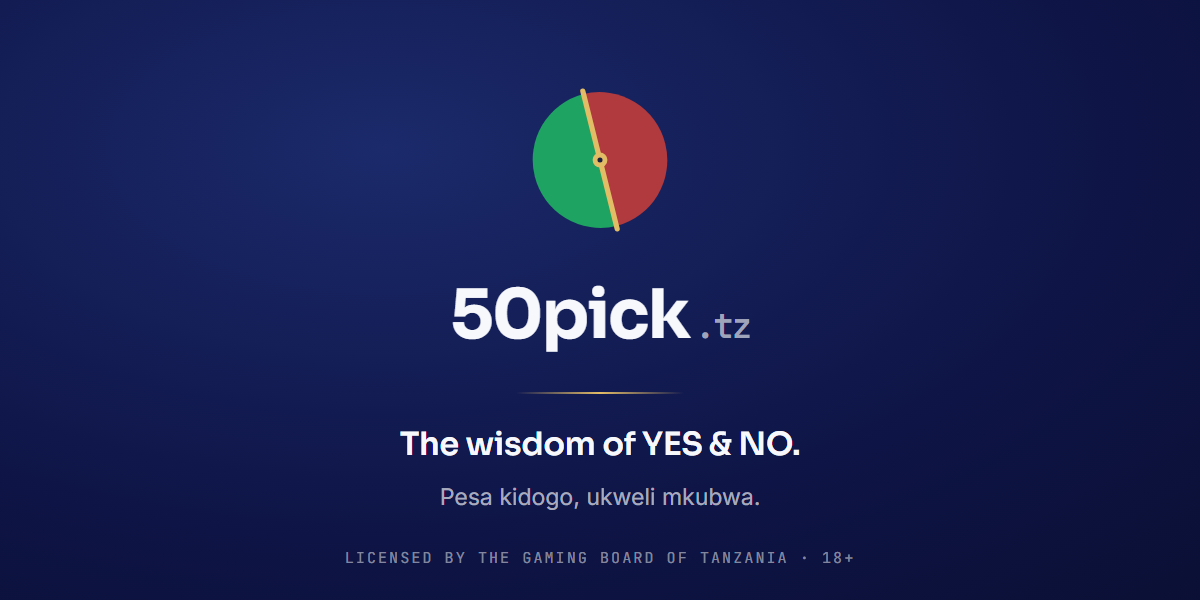
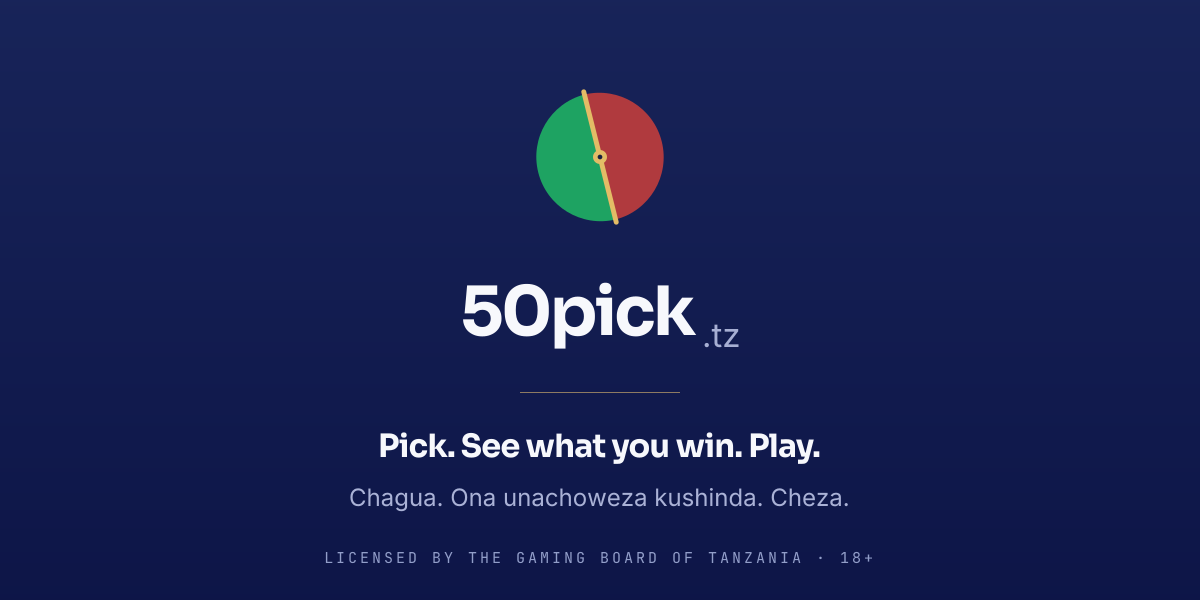
Park S15 legal copy, tagline and generated share previews

diff --git a/src/app/legal/terms/page.tsx b/src/app/legal/terms/page.tsx
@@ -201,9 +201,10 @@ export function content(objectionHours: number): Record<Locale, React.ReactNode>
           pool is shown, in shillings, on that market&apos;s resolution panel.
         </p>
         <p>
-          The probabilities shown on the dial are <em>implied</em> by the current pool composition and update with
-          every new bet — they are not guaranteed odds. While betting is open your final payout is not yet
-          determined, because the pools are still moving. <strong className="text-text">The moment betting closes,
+          Before you bet, a market may show what its pools imply — the share of the pool on each side, or an estimate
+          of what a bet would return if its side wins. Neither is guaranteed odds: both change with every new bet,
+          and while betting is open your final payout is not yet determined, because the pools are still moving.
+          <strong className="text-text">The moment betting closes,
           the pools are final and we notify you of the exact amount you will receive if your side wins.</strong>
         </p>
         <p>
@@ -244,8 +245,8 @@ export function content(objectionHours: number): Record<Locale, React.ReactNode>
       <LegalSection n="7" title="Responsible gambling">
         <p>
           You can set deposit limits, take a break, or self-exclude in{" "}
-          <a href="/profile/responsible-gambling" className="text-gold-300 hover:text-gold-200 underline-offset-2 hover:underline">Responsible Gambling</a>.
-          See the dedicated <a href="/legal/responsible-gambling" className="text-gold-300 hover:text-gold-200 underline-offset-2 hover:underline">Responsible Gambling Policy</a>.
+          <a href="/profile/responsible-gambling" className="text-brand-300 hover:text-brand-200 underline-offset-2 hover:underline">Responsible Gambling</a>.
+          See the dedicated <a href="/legal/responsible-gambling" className="text-brand-300 hover:text-brand-200 underline-offset-2 hover:underline">Responsible Gambling Policy</a>.
         </p>
       </LegalSection>
 
@@ -358,7 +359,7 @@ export function content(objectionHours: number): Record<Locale, React.ReactNode>
           <strong className="text-text">dau lililoshinda halilipwi chini ya dau lake kamwe</strong>.
         </p>
         <p>
-          Kama madau yote yako upande mmoja, hakuna upande ulioshindwa, kwa hiyo hatutozi chochote na kila dau
+          Kama madau yote yapo upande mmoja, hakuna upande ulioshindwa, kwa hiyo hatutozi chochote na kila dau
           linarudishwa lote. Vivyo hivyo kwa soko lililofutwa.
         </p>
         <p>
@@ -368,10 +369,11 @@ export function content(objectionHours: number): Record<Locale, React.ReactNode>
           paneli ya matokeo ya soko hilo.
         </p>
         <p>
-          Uwezekano unaoonyeshwa kwenye kipima-dau <em>unadokezwa</em> na muundo wa sasa wa bwawa na hubadilika kila
-          linapowekwa dau jipya — si bei (odds) za uhakika. Wakati dau bado liko wazi, malipo yako ya mwisho bado
-          hayajapangwa kwa sababu bwawa bado linabadilika.{" "}
-          <strong className="text-text">Mara dau litakapofungwa, bwawa litakuwa la mwisho na tutakujulisha kiasi kamili
+          Kabla hujaweka dau, soko linaweza kuonyesha kile ambacho mabwawa yake yanadokeza — sehemu ya bwawa iliyo kila
+          upande, au makadirio ya kiasi ambacho dau litalipa upande wake ukishinda. Vyote viwili si bei (odds) za uhakika:
+          vyote hubadilika kila linapowekwa dau jipya, na wakati uwekaji dau bado uko wazi, malipo yako ya mwisho bado
+          hayajapangwa kwa sababu mabwawa bado yanabadilika.{" "}
+          <strong className="text-text">Mara uwekaji dau utakapofungwa, mabwawa yatakuwa ya mwisho na tutakujulisha kiasi kamili
           utakachopata iwapo upande wako utashinda.</strong>
         </p>
         <p>
@@ -411,8 +413,8 @@ export function content(objectionHours: number): Record<Locale, React.ReactNode>
       <LegalSection n="7" title="Mchezo salama wa kubahatisha">
         <p>
           Unaweza kuweka mipaka ya kuweka fedha, kuchukua mapumziko, au kujizuia mwenyewe katika{" "}
-          <a href="/profile/responsible-gambling" className="text-gold-300 hover:text-gold-200 underline-offset-2 hover:underline">Mchezo Salama</a>.
-          Angalia <a href="/legal/responsible-gambling" className="text-gold-300 hover:text-gold-200 underline-offset-2 hover:underline">Sera ya Mchezo Salama</a> maalum.
+          <a href="/profile/responsible-gambling" className="text-brand-300 hover:text-brand-200 underline-offset-2 hover:underline">Mchezo Salama</a>.
+          Angalia <a href="/legal/responsible-gambling" className="text-brand-300 hover:text-brand-200 underline-offset-2 hover:underline">Sera ya Mchezo Salama</a> maalum.
         </p>
       </LegalSection>
 
@@ -505,7 +507,7 @@ export function content(objectionHours: number): Record<Locale, React.ReactNode>
           适用于某个市场的费率<strong className="text-text">在该市场创建时即已固定</strong>，此后不可更改。我们日后调整费率仅影响未来的市场；绝不会重新计价您已下的注。已结算奖池实际收取的佣金，会以先令金额显示在该市场的结算面板上。
         </p>
         <p>
-          转盘上显示的概率是由当前资金池构成所<em>隐含</em>的，并随每一笔新下注而更新——它们并非保证的赔率。在投注开放期间，由于资金池仍在变动，您的最终赔付尚未确定。
+          下注前，市场可能会显示其资金池所隐含的信息——各方在资金池中所占的份额，或若所选一方获胜时某笔投注可获回报的预估。两者均非保证的赔率：它们会随每一笔新下注而变化；在投注开放期间，由于资金池仍在变动，您的最终赔付尚未确定。
           <strong className="text-text">投注一经关闭，资金池即告最终确定，我们会通知您：若您所选一方获胜，您将收到的确切金额。</strong>
         </p>
         <p>
@@ -534,8 +536,8 @@ export function content(objectionHours: number): Record<Locale, React.ReactNode>
       <LegalSection n="7" title="负责任博彩">
         <p>
           您可以在
-          <a href="/profile/responsible-gambling" className="text-gold-300 hover:text-gold-200 underline-offset-2 hover:underline">负责任博彩</a>
-          中设置充值限额、暂停游戏或自我排除。另请参阅专门的<a href="/legal/responsible-gambling" className="text-gold-300 hover:text-gold-200 underline-offset-2 hover:underline">负责任博彩政策</a>。
+          <a href="/profile/responsible-gambling" className="text-brand-300 hover:text-brand-200 underline-offset-2 hover:underline">负责任博彩</a>
+          中设置充值限额、暂停游戏或自我排除。另请参阅专门的<a href="/legal/responsible-gambling" className="text-brand-300 hover:text-brand-200 underline-offset-2 hover:underline">负责任博彩政策</a>。
         </p>
       </LegalSection>
 

diff --git a/src/app/legal/rules/_content-yes-no.tsx b/src/app/legal/rules/_content-yes-no.tsx
@@ -107,7 +107,7 @@ export function yesNoContent(r: RulesRates): Record<Locale, React.ReactNode> {
             </li>
             <li>
               Stakes are bounded: minimum <span className="font-mono tabular-nums text-text whitespace-nowrap">{tzs(r.minStake)}</span>,
-              maximum <span className="font-mono tabular-nums text-text whitespace-nowrap">{tzs(r.maxStake)}</span> per position.
+              maximum <span className="font-mono tabular-nums text-text whitespace-nowrap">{tzs(r.maxStake)}</span> per bet.
             </li>
           </ul>
         </LegalSection>
@@ -129,7 +129,7 @@ export function yesNoContent(r: RulesRates): Record<Locale, React.ReactNode> {
               Every market carries a <strong className="text-text">named public source</strong> it will be settled
               against and a clear closing deadline, both displayed before you stake.
             </li>
-            <li>The conviction indicator shows where the crowd&apos;s money sits. It is information, not advice.</li>
+            <li>What a market shows before you bet — where the money sits, or an estimate of what a bet would return — is information, not advice.</li>
           </ul>
         </LegalSection>
 
@@ -146,6 +146,12 @@ export function yesNoContent(r: RulesRates): Record<Locale, React.ReactNode> {
             The commission is taken <strong className="text-text">only from the losing side</strong>, so a winning
             bet is never paid less than it staked. If every stake is on one side there is no losing side, so we
             charge nothing and every stake is refunded in full. The same applies to a voided market.
+          </p>
+          <p>
+            <strong className="text-text">Estimates shown before you bet.</strong> Before you bet, a market may show an
+            estimate of what a bet would return if its side wins. An estimate is information, not a promise: it changes
+            as other players bet, and what a winning bet is paid is fixed only when betting closes, from the final pools
+            and after our commission.
           </p>
           <p>
             <strong className="text-text">Cash-out.</strong> Within the first{" "}
@@ -282,7 +288,7 @@ export function yesNoContent(r: RulesRates): Record<Locale, React.ReactNode> {
             <li>
               Dau lina mipaka: kiwango cha chini{" "}
               <span className="font-mono tabular-nums text-text whitespace-nowrap">{tzs(r.minStake)}</span>, cha juu{" "}
-              <span className="font-mono tabular-nums text-text whitespace-nowrap">{tzs(r.maxStake)}</span> kwa kila nafasi.
+              <span className="font-mono tabular-nums text-text whitespace-nowrap">{tzs(r.maxStake)}</span> kwa kila dau.
             </li>
           </ul>
         </LegalSection>
@@ -303,7 +309,7 @@ export function yesNoContent(r: RulesRates): Record<Locale, React.ReactNode> {
               Kila soko lina <strong className="text-text">chanzo rasmi kilichotajwa</strong> na muda wa kufunga, vyote
               vikionyeshwa kabla hujaweka dau.
             </li>
-            <li>Kipimo cha msimamo huonyesha pesa za umati zilipo. Ni taarifa, si ushauri.</li>
+            <li>Kile ambacho soko linaonyesha kabla hujaweka dau — pesa zilipo, au makadirio ya kiasi ambacho dau litalipa — ni taarifa, si ushauri.</li>
           </ul>
         </LegalSection>
 
@@ -321,11 +327,17 @@ export function yesNoContent(r: RulesRates): Record<Locale, React.ReactNode> {
             hivyo hatutozi chochote na kila dau hurudishwa kamili. Vivyo hivyo kwa soko lililobatilishwa.
           </p>
           <p>
+            <strong className="text-text">Makadirio yanayoonyeshwa kabla ya kuweka dau.</strong> Kabla hujaweka dau, soko
+            linaweza kuonyesha makadirio ya kiasi ambacho dau litalipa upande wake ukishinda. Makadirio ni taarifa, si
+            ahadi: hubadilika wachezaji wengine wanapoweka dau, na kiasi ambacho dau lililoshinda hulipwa huamuliwa tu
+            uwekaji dau unapofungwa, kutokana na mabwawa ya mwisho na baada ya kamisheni yetu.
+          </p>
+          <p>
             <strong className="text-text">Kuuza dau mapema.</strong> Ndani ya dakika{" "}
             <span className="font-mono tabular-nums text-text">{r.freeExitMinutes}</span> za kwanza baada ya kuweka dau
             unaweza kuliuza na kurudishiwa kamili bila gharama — <strong>ikiwa, wakati ulipoliweka, kulikuwa bado na
-            angalau dakika {r.freeExitMinutes} za kuweka dau kwenye soko hilo</strong>, na ikiwa nafasi hiyo
-            haikugharamiwa na bonasi. Baada ya muda huo dau linafungwa hadi kutatuliwa.
+            angalau dakika {r.freeExitMinutes} za kuweka dau kwenye soko hilo</strong>, na ikiwa dau hilo
+            halikugharamiwa na bonasi. Baada ya muda huo dau linafungwa hadi kutatuliwa.
           </p>
           <p>
             <strong className="text-text">Ada ya kutoa pesa.</strong> Kutoa pesa kwenye pochi yako kuna ada ya{" "}
@@ -460,7 +472,7 @@ export function yesNoContent(r: RulesRates): Record<Locale, React.ReactNode> {
             </li>
             <li>每个市场为一个问题，仅有两个答案：{w.zh.yes}或{w.zh.no}。</li>
             <li>每个市场都载明<strong className="text-text">具名的公开来源</strong>与明确的截止时间，两者均在您下注前展示。</li>
-            <li>信心指示器显示资金分布，仅供参考，不构成建议。</li>
+            <li>市场在您下注前显示的内容——资金分布，或某笔投注可获回报的预估——仅供参考，不构成建议。</li>
           </ul>
         </LegalSection>
 
@@ -474,6 +486,9 @@ export function yesNoContent(r: RulesRates): Record<Locale, React.ReactNode> {
           </p>
           <p>
             佣金<strong className="text-text">仅从失败方扣取</strong>，因此获胜的下注所得永不低于本金。若全部资金都在同一方，则不存在失败方，我们不收取任何费用，所有下注全额退还。市场作废时亦同。
+          </p>
+          <p>
+            <strong className="text-text">下注前显示的预估。</strong>下注前，市场可能会显示若所选一方获胜时某笔投注可获回报的预估。预估仅供参考，并非承诺：它会随其他玩家下注而变化；获胜投注的实际派彩仅在投注关闭时，依据最终奖池并扣除我们的佣金后确定。
           </p>
           <p>
             <strong className="text-text">提前卖出。</strong>下注后的前{" "}

diff --git a/src/lib/terms-version.ts b/src/lib/terms-version.ts
@@ -74,11 +74,13 @@ export const TERMS_VERSION = "2026-10-14";
  * ⚠ NOT covered, by design: values filled in at runtime from officer config — the §6 objection window and the
  * dispute address. They are rebuilt for any date from the `config.*` audit trail.
  *
- * ⛔ **IT MOVES ONLY TOGETHER WITH `TERMS_VERSION` ABOVE.** If §2.1 fails, do NOT paste the new hash and
+ * ⛔ **A PUBLISHED CHANGE MOVES THIS WITH `TERMS_VERSION` ABOVE.** If §2.1 fails, do NOT paste the new hash and
  * move on: a failure means the binding text changed, which is exactly the event the version exists to
- * record. Change both in one commit — or, for a same-day player-favourable amendment inside a version
- * published that day, record it in `COMPLIANCE-DECISIONS.md` and move only the hash.
+ * record. The sole preparation exception is the isolated, unpublished S15 copy branch: it pins the reviewed
+ * future text now; the publication commit MUST date TERMS_VERSION and the Rules metadata before merging it.
+ * For a same-day player-favourable amendment inside a version published that day, record it in
+ * `COMPLIANCE-DECISIONS.md` and move only the hash.
  */
-// 2026-10-14 · re-pinned WITH `TERMS_VERSION` 2026-10-14 (S12 WP2: the Swahili side word and "madau" — §3a, §4, §6),
-// measured by `test:terms-binding` §2 over the new binding text (was 06208a18691e at 2026-10-10).
-export const TERMS_TEXT_SHA = "bba4158e18c2";
+// S15 COPY PREPARATION ONLY, NEVER PUBLISH AT THIS VERSION. The integrated S12 and S15 words are pinned here;
+// the publication commit MUST date TERMS_VERSION and the Rules metadata together with the copy.
+export const TERMS_TEXT_SHA = "a642776bb295";

diff --git a/src/lib/i18n-dict.ts b/src/lib/i18n-dict.ts
@@ -503,7 +503,7 @@ export const dict = {
     },
     auth: {
       signInTitle: "Sign in", signUpTitle: "Create account",
-      railTagline: "Predict events. Not chance.",
+      railTagline: "Pick. See what you win. Play.",
       /** The brand lockup's accessible name on the auth screens. It was a hardcoded English
        *  `aria-label` on a link whose only content is an SVG — so the ONE landmark a
        *  screen-reader user has for getting off a half-finished sign-up announced itself in
@@ -3732,7 +3732,7 @@ export const dict = {
     },
     auth: {
       signInTitle: "Ingia", signUpTitle: "Fungua akaunti",
-      railTagline: "Tabiri matukio. Si bahati.",
+      railTagline: "Chagua. Ona unachoweza kushinda. Cheza.",
       brandHomeAria: "Mwanzo wa 50pick",
       continueWithPhone: "Endelea na simu yako",
       enterPhonePassword: "Weka simu na nenosiri.",
@@ -6268,7 +6268,7 @@ export const dict = {
     },
     auth: {
       signInTitle: "登录", signUpTitle: "创建账户",
-      railTagline: "预测事件，而非运气。",
+      railTagline: "选择。看看您能赢多少。开始玩。",
       brandHomeAria: "50pick 首页",
       continueWithPhone: "使用手机号继续",
       enterPhonePassword: "输入您的手机号和密码。",

diff --git a/src/app/api/og/page/route.tsx b/src/app/api/og/page/route.tsx
@@ -4,11 +4,12 @@
  *   ?title=...&sub=...
  *
  * Deep-navy brand gradient (#0A0E33 → #060A50, per spec), the mark-a coin, the
- * wordmark, a gilt hairline, the title, and the "The wisdom of YES & NO" tagline.
+ * wordmark, a gilt hairline, the title, and the reviewed tagline.
  * Text uses Satori's default sans (brand fonts aren't loaded into ImageResponse
  * — the ⊘-font caveat); everything else is brand-exact.
  */
 import { ImageResponse } from "next/og";
+import { dict } from "@/lib/i18n-dict";
 
 export const runtime = "nodejs";
 export const dynamic = "force-dynamic";
@@ -57,7 +58,7 @@ export async function GET(req: Request) {
         {sub ? <div style={{ marginTop: 16, fontSize: 25, opacity: 0.68, display: "flex" }}>{sub}</div> : null}
 
         <div style={{ position: "absolute", bottom: 46, fontSize: 15, letterSpacing: "0.16em", textTransform: "uppercase", opacity: 0.5 }}>
-          The wisdom of YES &amp; NO
+          {dict.en.auth.railTagline}
         </div>
       </div>
     ),

diff --git a/docs/COMPLIANCE-DECISIONS.md b/docs/COMPLIANCE-DECISIONS.md
@@ -80,6 +80,24 @@ platform fee and TRA/GBT levies on that fee apply. Ordinary turnover in the Gami
 both stakes (D20), and the player-visible count reflects both accounts' `countsAs` values. Accepted risk 21 extends
 to the published collusion language.
 
+---
+
+## S15 publication draft · How to Play estimates, legal wording and share tagline (Vodacom S11)
+
+**Status: parked on `codex/vodacom-s15-copy`; date this entry and the legal versions when S15 publishes.**
+Ali accepted the S11-PLAN "Points for Ali" on 2026-10-14 (the owner decision entry below). The Rules and Terms
+describe the estimated return that a player may see before betting, how it can change with later bets, and when the
+final payout is fixed. The Swahili Rules and Terms correct *dau/madau* and the YES/NO spelling. The six Terms links
+to responsible gambling, privacy and related pages use the approved blue link colour so they are legible.
+
+These edits explain the existing operation and correct wording; they narrow no player right. Terms §10's 14-day
+notice for a rights reduction does not apply, and existing players are not asked to accept the Terms again. On the
+publication day, set `TERMS_VERSION`, the Rules page's displayed version, and this entry's date together, then run
+`test:terms-binding` and the S15 legal gates. The website, manifest and share previews take the approved tagline
+"Pick. See what you win. Play." in English, with the reviewed Swahili and Chinese equivalents.
+
+---
+
 ## 2026-10-14 · The owner's answers to the open points — Up & Down follow-ups, S9's held-deposit words, S16's "in bounds", S10–S13 accepted
 
 **Authority.** Ali, 2026-10-14, answering the consolidated list (VODACOM-PLAN §0 "WAITING ON ALI") in this session's

diff --git a/docs/DESIGN_AUTHORITY.md b/docs/DESIGN_AUTHORITY.md
@@ -211,7 +211,9 @@ icon and every outbound email once shipped the superseded round-1 logo. **Change
 of a development page, and it kept what that page drew over itself: the Next.js dev-tools badge in one
 corner and the chat bubble in the other, on every X preview of 50pick. `npm run test:brand-assets` §3
 holds it equal to the share picture's middle rows, pixel for pixel. The 1200×630 share picture itself
-(also the manifest's wide screenshot) is **held**: `build:brand` reads it and never writes it.
+(also the manifest's wide screenshot) is generated by `npm run build:og -- --key auth.railTagline --out <directory>`;
+`build:brand` reads that output and never writes it. `test:brand-assets` binds the published picture
+to that generator pixel for pixel. Regenerate the picture before cropping the X card.
 
 ⚠ **Corrected 2026-08-21, and the error ran in the dangerous direction.** This rule read
 *"Every SVG and PNG under `public/brand/` and `public/icons/` is generated"* — which promises a
